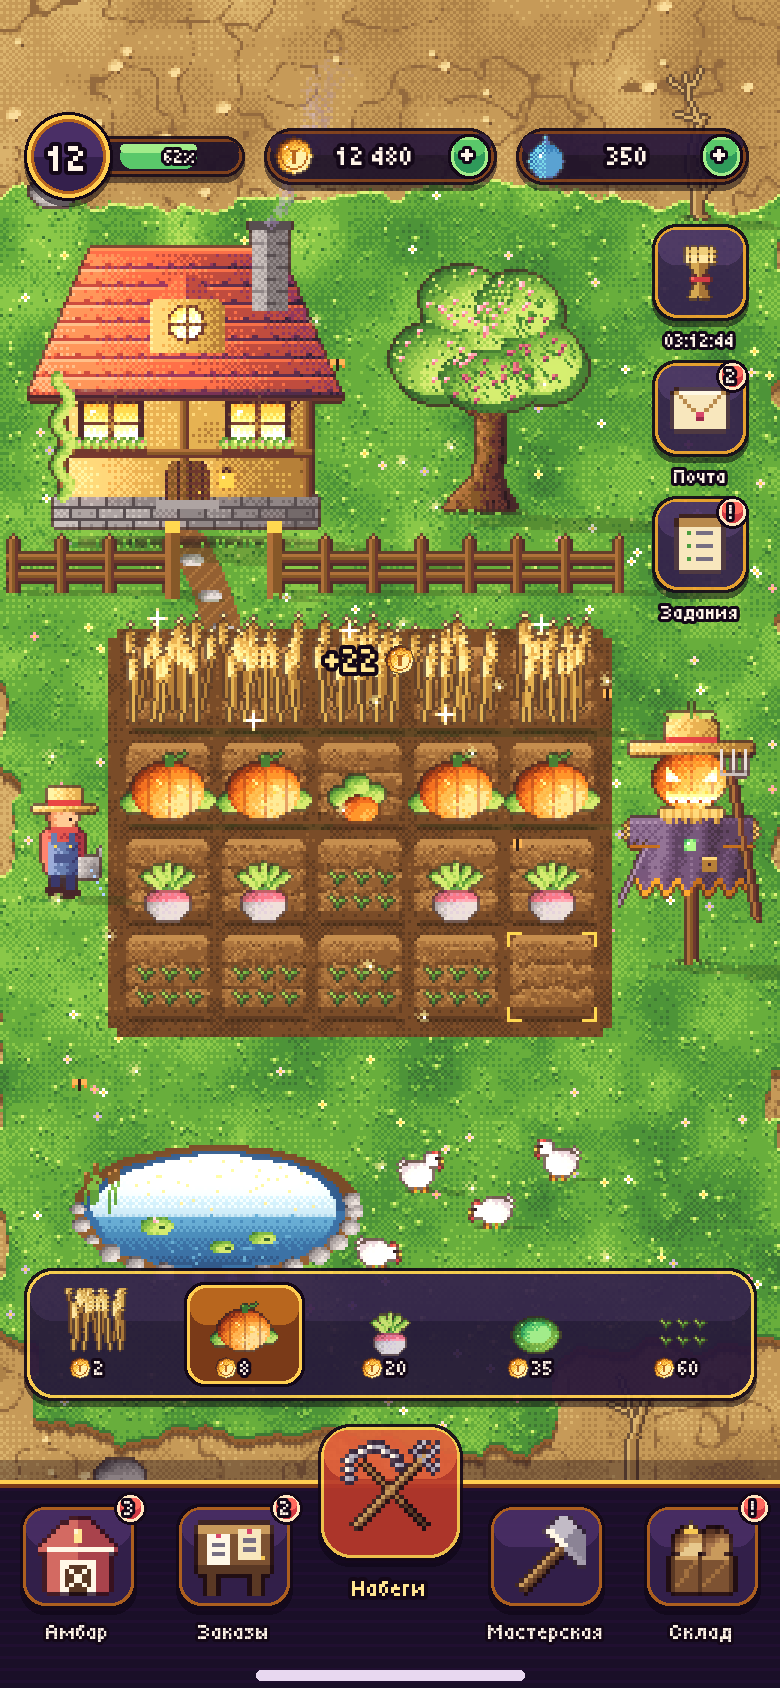
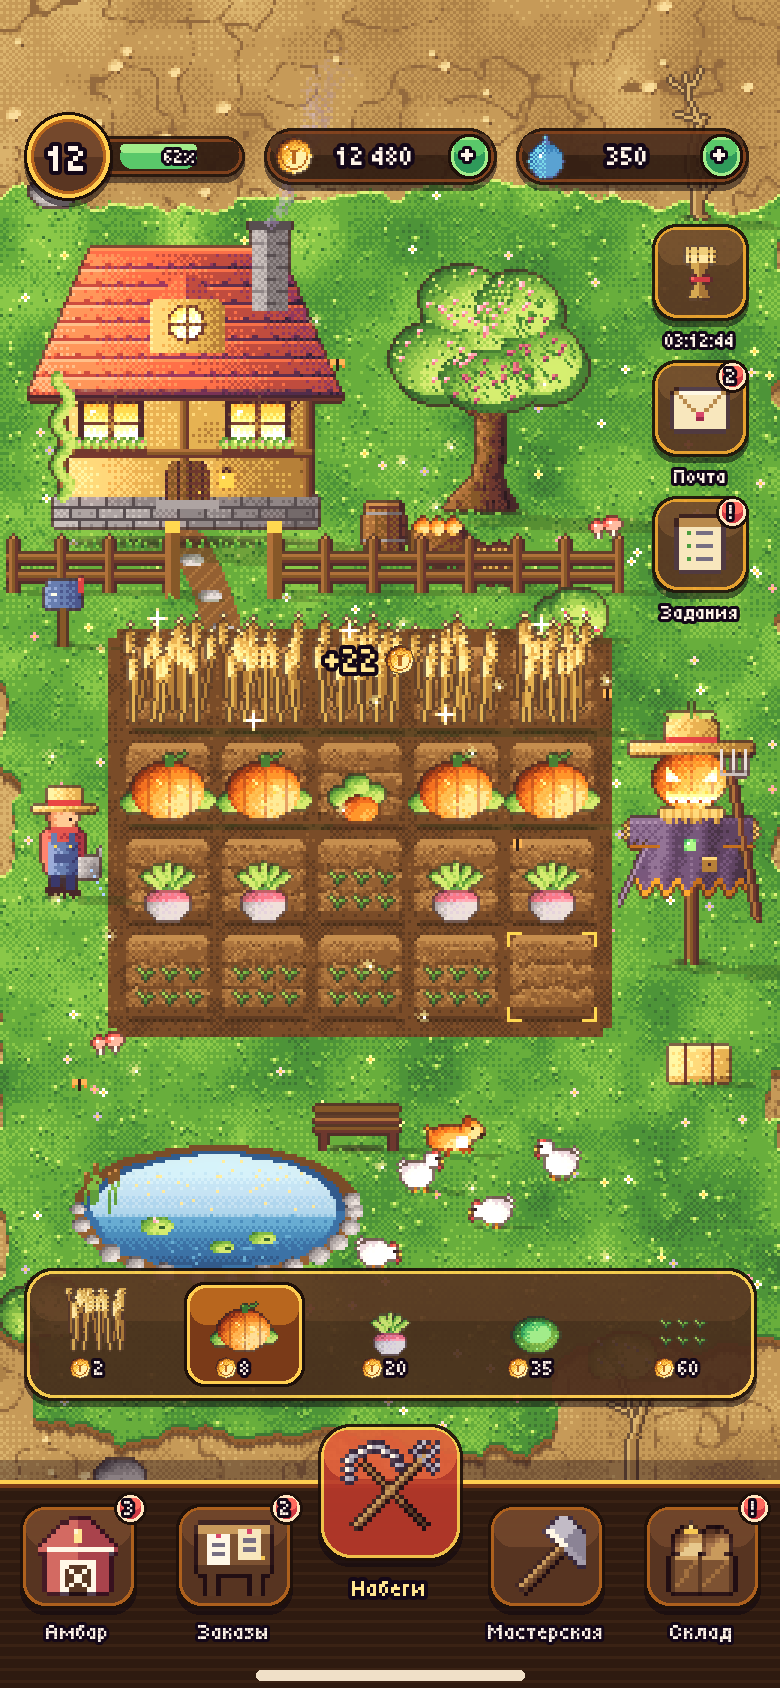
Cozy daytime frame: props, wood UI theme
Claude-Session: https://claude.ai/code/session_01QX4WGR94dByJemKKg5xUTs

diff --git a/art/hd/frame.py b/art/hd/frame.py
@@ -105,6 +105,8 @@ def world():
                   "t": O.moon_turnip(2), "s": O.sprout()}[k]
             add(sp, 40 + c * 32, 214 + (r + 1) * 32 - 2, shadow=k in ("w", "p"), ao=0)
 
+    for fn in EXTRA:
+        fn(add)
     for base, sp, x, y, sh, ao in objs:
         if sh:
             im.alpha_composite(cast_shadow(sp, alpha=70), (x, y))
@@ -156,12 +158,21 @@ def text(dst, x, y, s, pt, fill="#fff4e8", stroke="#140818", anchor="la", sw=2):
                              stroke_width=int(sw * K), stroke_fill=stroke)
 
 
-def panel(dst, x0, y0, x1, y1, fill="#26163a", rim="#f0a02e", hi="#4a2f66", r=8, shadow=True, alpha=235):
+COLORS = {}
+EXTRA = []  # callbacks that add more objects to the world: fn(add)
+
+
+def col(c):
+    """Theme hook: the day frame swaps the purple UI for dark wood."""
+    return COLORS.get(c, c)
+
+
+def panel(dst, x0, y0, x1, y1, fill=col("#26163a"), rim=col("#f0a02e"), hi=col("#4a2f66"), r=8, shadow=True, alpha=235):
     lay = Image.new("RGBA", dst.size)
     d = ImageDraw.Draw(lay)
     if shadow:
         d.rounded_rectangle([x0 * K, (y0 + 3) * K, x1 * K, (y1 + 3) * K], r * K, fill=(10, 4, 16, 140))
-    d.rounded_rectangle([x0 * K, y0 * K, x1 * K, y1 * K], r * K, fill="#140818")
+    d.rounded_rectangle([x0 * K, y0 * K, x1 * K, y1 * K], r * K, fill=col("#140818"))
     d.rounded_rectangle([(x0 + 1.5) * K, (y0 + 1.5) * K, (x1 - 1.5) * K, (y1 - 1.5) * K], (r - 1) * K, fill=rim)
     d.rounded_rectangle([(x0 + 3) * K, (y0 + 3) * K, (x1 - 3) * K, (y1 - 3) * K], (r - 2) * K, fill=fill)
     d.rounded_rectangle([(x0 + 3) * K, (y0 + 3) * K, (x1 - 3) * K, (y0 + 3 + (y1 - y0) * 0.35) * K], (r - 2) * K,
@@ -179,7 +190,7 @@ def icon(dst, im, cx, cy, size):
 
 def badge(dst, cx, cy, s):
     w = max(16, 8 + 7 * len(s))
-    panel(dst, cx - w / 2, cy - 8, cx + w / 2, cy + 8, fill="#d23a44", rim="#ffe6c0", hi="#ff6a5e", r=8,
+    panel(dst, cx - w / 2, cy - 8, cx + w / 2, cy + 8, fill=col("#d23a44"), rim=col("#ffe6c0"), hi=col("#ff6a5e"), r=8,
           shadow=False, alpha=255)
     text(dst, cx, cy, s, 11, anchor="mm", sw=1.5)
 
@@ -195,25 +206,25 @@ def hud_parts(dst, tray=True, gain=(176, 330)):
     top = 56
     # level: round badge with XP ring and name
     # XP bar first, the round badge sits on its left end
-    panel(dst, 44, top + 12, 122, top + 32, fill="#1a0f28", rim="#7a3a18", hi="#1a0f28", r=10, shadow=True)
+    panel(dst, 44, top + 12, 122, top + 32, fill=col("#1a0f28"), rim=col("#7a3a18"), hi=col("#1a0f28"), r=10, shadow=True)
     dd = ImageDraw.Draw(dst)
-    dd.rounded_rectangle([60 * K, (top + 16) * K, 98 * K, (top + 28) * K], 6 * K, fill="#5ac86a")
-    dd.rounded_rectangle([60 * K, (top + 16) * K, 98 * K, (top + 20) * K], 3 * K, fill="#a2ec8a")
+    dd.rounded_rectangle([60 * K, (top + 16) * K, 98 * K, (top + 28) * K], 6 * K, fill=col("#5ac86a"))
+    dd.rounded_rectangle([60 * K, (top + 16) * K, 98 * K, (top + 20) * K], 3 * K, fill=col("#a2ec8a"))
     text(dst, 90, top + 22, "62%", 10, anchor="mm", sw=1.5)
     cxl, cyl, rl = 34, top + 22, 22
     sh = Image.new("RGBA", dst.size)
     ImageDraw.Draw(sh).ellipse([(cxl - rl) * K, (cyl - rl + 3) * K, (cxl + rl) * K, (cyl + rl + 3) * K], fill=(10, 4, 16, 140))
     dst.alpha_composite(sh)
-    for rr, col in ((rl, "#140818"), (rl - 1.5, "#ffce50"), (rl - 3.5, "#b8661e"), (rl - 5, "#34204c")):
-        dd.ellipse([(cxl - rr) * K, (cyl - rr) * K, (cxl + rr) * K, (cyl + rr) * K], fill=col)
-    dd.chord([(cxl - rl + 5) * K, (cyl - rl + 5) * K, (cxl + rl - 5) * K, (cyl + rl - 5) * K], 180, 360, fill="#4a2f66")
+    for rr, ring in ((rl, col("#140818")), (rl - 1.5, col("#ffce50")), (rl - 3.5, col("#b8661e")), (rl - 5, col("#34204c"))):
+        dd.ellipse([(cxl - rr) * K, (cyl - rr) * K, (cxl + rr) * K, (cyl + rr) * K], fill=ring)
+    dd.chord([(cxl - rl + 5) * K, (cyl - rl + 5) * K, (cxl + rl - 5) * K, (cyl + rl - 5) * K], 180, 360, fill=col("#4a2f66"))
     text(dst, cxl, cyl + 1, "12", 20, anchor="mm")
 
     def pill(x0, im, value):
-        panel(dst, x0, top + 8, x0 + 116, top + 36, fill="#1a0f28", rim="#7a3a18", hi="#26163a", r=14)
+        panel(dst, x0, top + 8, x0 + 116, top + 36, fill=col("#1a0f28"), rim=col("#7a3a18"), hi=col("#26163a"), r=14)
         icon(dst, im, x0 + 15, top + 22, 20)
         text(dst, x0 + 56, top + 22, value, 14, anchor="mm")
-        panel(dst, x0 + 92, top + 11, x0 + 113, top + 33, fill="#2f9a5a", rim="#a2ec8a", hi="#5ac86a", r=10,
+        panel(dst, x0 + 92, top + 11, x0 + 113, top + 33, fill=col("#2f9a5a"), rim=col("#a2ec8a"), hi=col("#5ac86a"), r=10,
               shadow=False, alpha=255)
         text(dst, x0 + 102.5, top + 21.5, "+", 16, anchor="mm", sw=1.5)
 
@@ -225,7 +236,7 @@ def hud_parts(dst, tray=True, gain=(176, 330)):
     for i, (ic, label, b) in enumerate((("hud_sickle", "03:12:44", None), ("hud_mail", "Почта", "2"),
                                         ("hud_tasks", "Задания", "!"))):
         y = 112 + i * 68
-        panel(dst, 326, y, 374, y + 48, fill="#34204c", rim="#f0a02e", hi="#4a2f66", r=12)
+        panel(dst, 326, y, 374, y + 48, fill=col("#34204c"), rim=col("#f0a02e"), hi=col("#4a2f66"), r=12)
         icon(dst, side_icons[ic], 350, y + 24, 30)
         text(dst, 350, y + 58, label, 10, anchor="mm", sw=1.5)
         if b:
@@ -234,19 +245,19 @@ def hud_parts(dst, tray=True, gain=(176, 330)):
     # seed tray: slides up over the dock while an empty bed is selected
     if tray:
         ty0 = 634
-        panel(dst, 12, ty0, 378, ty0 + 66, fill="#26163a", rim="#ffce50", hi="#34204c", r=14)
+        panel(dst, 12, ty0, 378, ty0 + 66, fill=col("#26163a"), rim=col("#ffce50"), hi=col("#34204c"), r=14)
         seeds = [(O.wheat(3), "2", "Пыльная пшеница"), (O.ember_pumpkin(3), "8", ""), (O.moon_turnip(2), "20", ""),
                  (O.frost_cabbage(), "35", ""), (O.sprout(), "60", "")]
         for i, (sp, cost, _) in enumerate(seeds):
             cx = 49 + i * 73
             if i == 1:
-                panel(dst, cx - 30, ty0 + 7, cx + 30, ty0 + 59, fill="#7a3a18", rim="#ffce50", hi="#b8661e", r=10,
+                panel(dst, cx - 30, ty0 + 7, cx + 30, ty0 + 59, fill=col("#7a3a18"), rim=col("#ffce50"), hi=col("#b8661e"), r=10,
                       shadow=False, alpha=255)
             icon(dst, sp.crop((0, 12, 32, 44)), cx, ty0 + 27, 34)
             icon(dst, O.coin_icon(), cx - 9, ty0 + 50, 11)
             text(dst, cx - 2, ty0 + 50, cost, 11, anchor="lm", sw=1.5)
     # floating gain over the wheat
-    text(dst, gain[0], gain[1], "+22", 18, fill="#ffe590", anchor="mm")
+    text(dst, gain[0], gain[1], "+22", 18, fill=col("#ffe590"), anchor="mm")
     icon(dst, O.coin_icon(), gain[0] + 24, gain[1], 15)
 
     # dock
@@ -256,30 +267,30 @@ def hud_parts(dst, tray=True, gain=(176, 330)):
     ld = ImageDraw.Draw(lay)
     ld.rectangle([0, (dock - 10) * K, 390 * K, dock * K], fill=(20, 8, 24, 90))
     dst.alpha_composite(lay)
-    d.rectangle([0, dock * K, 390 * K, 844 * K], fill="#1a0f28")
-    d.rectangle([0, dock * K, 390 * K, (dock + 2) * K], fill="#ffce50")
-    d.rectangle([0, (dock + 2) * K, 390 * K, (dock + 4) * K], fill="#7a3a18")
+    d.rectangle([0, dock * K, 390 * K, 844 * K], fill=col("#1a0f28"))
+    d.rectangle([0, dock * K, 390 * K, (dock + 2) * K], fill=col("#ffce50"))
+    d.rectangle([0, (dock + 2) * K, 390 * K, (dock + 4) * K], fill=col("#7a3a18"))
     for y in range(dock + 4, 844, 6):
-        d.rectangle([0, y * K, 390 * K, (y + 1) * K], fill="#200f30")
+        d.rectangle([0, y * K, 390 * K, (y + 1) * K], fill=col("#200f30"))
     slots = [("dock_barn", "Амбар", "3"), ("dock_orders", "Заказы", "2"), ("dock_raids", "Набеги", None),
              ("dock_workshop", "Мастерская", None), ("dock_storage", "Склад", "!")]
     for i, (ic, label, b) in enumerate(slots):
         cx = 39 + i * 78
         if ic == "dock_raids":
             y0 = dock - 28
-            panel(dst, cx - 36, y0, cx + 36, y0 + 68, fill="#b8382a", rim="#ffce50", hi="#e2603a", r=16)
+            panel(dst, cx - 36, y0, cx + 36, y0 + 68, fill=col("#b8382a"), rim=col("#ffce50"), hi=col("#e2603a"), r=16)
             g = Image.new("RGBA", dst.size)
             icon(g, lf[ic], cx, y0 + 33, 50)
             dst.alpha_composite(g)
-            text(dst, cx, y0 + 82, label, 12, anchor="mm", fill="#ffe590")
+            text(dst, cx, y0 + 82, label, 12, anchor="mm", fill=col("#ffe590"))
             continue
         y0 = dock + 12
-        panel(dst, cx - 29, y0, cx + 29, y0 + 52, fill="#34204c", rim="#b8661e", hi="#4a2f66", r=12)
+        panel(dst, cx - 29, y0, cx + 29, y0 + 52, fill=col("#34204c"), rim=col("#b8661e"), hi=col("#4a2f66"), r=12)
         icon(dst, lf[ic], cx, y0 + 26, 40)
         text(dst, cx, y0 + 64, label, 11, anchor="mm", sw=1.5)
         if b:
             badge(dst, cx + 26, y0 + 2, b)
-    d.rounded_rectangle([(195 - 67) * K, 835 * K, (195 + 67) * K, 840 * K], 3 * K, fill="#e8d8f0")
+    d.rounded_rectangle([(195 - 67) * K, 835 * K, (195 + 67) * K, 840 * K], 3 * K, fill=col("#e8d8f0"))
 
 
 def grade(img):

diff --git a/art/hd/props.py b/art/hd/props.py
@@ -1,0 +1,185 @@
+"""Small farm props for the cozy daytime look: barrels, crates, mailbox,
+bushes, flower boxes, log pile, mushrooms, hay bale, a dog, a bench.
+They make the farm feel lived-in."""
+import math
+import random
+
+from .draw import ball, line, mix, new, outline, put, rect
+from .palette import RAMPS, dither, hash01, ramp_d
+
+R = RAMPS
+
+
+def barrel():
+    im = new(16, 20)
+    for y in range(2, 19):
+        bulge = 1 if 5 < y < 16 else 0
+        for x in range(2 - bulge, 14 + bulge):
+            t = 0.78 - (x - 1) / 14 * 0.5
+            if y in (5, 14):
+                put(im, x, y, R["stone"][2 if x > 8 else 4])
+                continue
+            if (x - 1) % 4 == 0:
+                t -= 0.15
+            put(im, x, y, ramp_d("wood", t, x, y))
+    for x in range(3, 13):
+        put(im, x, 2, R["wood"][5] if x < 9 else R["wood"][4])
+        put(im, x, 3, R["wood"][2])
+    outline(im)
+    return im
+
+
+def crate(vegs=True):
+    im = new(20, 18)
+    for y in range(5, 17):
+        for x in range(1, 19):
+            t = 0.75 - (x / 19) * 0.4
+            if y in (5, 16) or x in (1, 18):
+                t -= 0.2
+            put(im, x, y, ramp_d("wood", t, x, y))
+    line(im, 2, 15, 17, 6, R["wood"][2])
+    if vegs:
+        for (x, c) in ((5, "pumpkin"), (10, "pumpkin"), (15, "pumpkin")):
+            ball(im, x, 4, 3, 2.6, c, lo=0.3, hi=0.95)
+        put(im, 10, 1, R["leaf"][3])
+    outline(im)
+    return im
+
+
+def mailbox():
+    im = new(14, 24)
+    rect(im, 6, 10, 7, 23, R["wood"][3])
+    put(im, 6, 10, R["wood"][4])
+    for y in range(2, 11):
+        for x in range(1, 13):
+            if y < 4 and x in (1, 12):
+                continue
+            t = 0.75 - x / 13 * 0.4
+            put(im, x, y, ramp_d("cloth_blue", t, x, y))
+    rect(im, 12, 1, 13, 5, R["red"][2])
+    put(im, 12, 1, R["red"][3])
+    put(im, 3, 6, "#fff4e8")
+    put(im, 4, 6, "#fff4e8")
+    outline(im)
+    return im
+
+
+def bush(w=26, h=18, seed=1, berries=None):
+    im = new(w, h)
+    rnd = random.Random(seed)
+    blobs = [(w * 0.3, h * 0.6, w * 0.3, h * 0.42), (w * 0.62, h * 0.52, w * 0.32, h * 0.46),
+             (w * 0.46, h * 0.38, w * 0.26, h * 0.34)]
+    for (bx, by, rx, ry) in blobs:
+        ball(im, bx, by, rx, ry, "leaf", lo=0.15, hi=0.95)
+    for _ in range(w * h // 14):
+        bx, by, rx, ry = rnd.choice(blobs)
+        a = rnd.random() * 6.283
+        x, y = bx + math.cos(a) * rx * 0.7, by + math.sin(a) * ry * 0.7
+        if im.getpixel((int(x), int(y)))[3]:
+            lit = x + y < w * 0.7
+            put(im, x, y, R["leaf"][5 if lit else 3])
+    if berries:
+        for _ in range(7):
+            x, y = rnd.randrange(3, w - 3), rnd.randrange(3, h - 3)
+            if im.getpixel((x, y))[3]:
+                put(im, x, y, berries)
+                put(im, x - 1, y - 1, "#ffffff")
+    outline(im)
+    return im
+
+
+def flower_box(w=34):
+    im = new(w, 16)
+    for y in range(8, 15):
+        for x in range(1, w - 1):
+            put(im, x, y, ramp_d("wood", 0.7 - x / w * 0.35 - (0.2 if y in (8, 14) else 0), x, y))
+    rnd = random.Random(w)
+    cols = ("#ff7a8a", "#ffd34a", "#ffffff", "#c88aff", "#ff9a4a")
+    for x in range(3, w - 3, 3):
+        hgt = rnd.randint(3, 6)
+        for k in range(hgt):
+            put(im, x, 8 - k, R["leaf"][3])
+        c = rnd.choice(cols)
+        for dx, dy in ((0, 0), (1, 0), (-1, 0), (0, -1), (0, 1)):
+            put(im, x + dx, 8 - hgt + dy, c)
+        put(im, x, 8 - hgt, "#ffce50")
+    outline(im)
+    return im
+
+
+def log_pile():
+    im = new(26, 16)
+    for (cx, cy) in ((6, 11), (13, 11), (20, 11), (9, 5), (16, 5)):
+        for y in range(cy - 4, cy + 5):
+            for x in range(cx - 4, cx + 5):
+                d = math.hypot(x - cx, y - cy)
+                if d <= 4:
+                    c = R["straw"][4] if d < 1.5 else R["straw"][3] if d < 3 else R["wood"][2]
+                    if 2.2 < d < 2.8:
+                        c = R["wood"][3]
+                    put(im, x, y, c)
+    outline(im)
+    return im
+
+
+def hay_bale():
+    im = new(22, 16)
+    for y in range(3, 15):
+        for x in range(1, 21):
+            t = 0.85 - x / 21 * 0.4 - (0.2 if y > 12 else 0)
+            if (x + y * 3) % 7 == 0:
+                t += 0.1
+            put(im, x, y, ramp_d("straw", t, x, y))
+    for x in range(1, 21):
+        put(im, x, 3, R["straw"][5])
+    rect(im, 6, 3, 6, 14, R["wood"][2])
+    rect(im, 15, 3, 15, 14, R["wood"][2])
+    outline(im)
+    return im
+
+
+def mushrooms():
+    im = new(12, 10)
+    for (x, y, r) in ((3, 6, 2.6), (8, 5, 3.2)):
+        rect(im, x, y, x, y + 3, "#fff4e8")
+        ball(im, x, y, r, r * 0.7, "red", lo=0.3, hi=1.0)
+        put(im, x - 1, y - 1, "#ffffff")
+    outline(im)
+    return im
+
+
+def dog(frame=0):
+    """A sleepy farm dog: original, ginger with a white chest."""
+    im = new(22, 16)
+    ball(im, 10, 10, 7, 4.2, "pumpkin", lo=0.3, hi=0.9)
+    ball(im, 17, 7, 3.6, 3.2, "pumpkin", lo=0.35, hi=0.95)
+    rect(im, 15, 3, 16, 5, R["pumpkin"][2])  # ear
+    put(im, 20, 8, "#2a1a12")  # nose
+    put(im, 17, 6, "#2a1a12")  # eye
+    ball(im, 14, 11, 2.5, 2, "white", lo=0.5, hi=1.0)
+    for x in (6, 9, 13, 15):
+        rect(im, x, 13, x + 1, 15, R["pumpkin"][2])
+    tail = (2, 6) if frame == 0 else (2, 9)
+    line(im, 4, 9, tail[0], tail[1], R["pumpkin"][4])
+    outline(im)
+    return im
+
+
+def bench():
+    im = new(30, 16)
+    for y in (5, 8):
+        for x in range(1, 29):
+            put(im, x, y, R["wood"][4] if y == 5 else R["wood"][3])
+            put(im, x, y + 1, R["wood"][2])
+    for x in (3, 26):
+        rect(im, x, 9, x + 1, 15, R["wood"][2])
+    rect(im, 1, 1, 28, 2, R["wood"][3])
+    outline(im)
+    return im
+
+
+def stepping_stone(r=4):
+    im = new(r * 2 + 3, r + 3)
+    ball(im, r + 1, (r + 3) / 2, r, r * 0.55, "stone", lo=0.35, hi=1.0)
+    outline(im)
+    return im

diff --git a/art/hd/frame_day.py b/art/hd/frame_day.py
@@ -13,7 +13,7 @@ DAY = {
     "soil": ["#3a2418", "#523222", "#6c4228", "#865632", "#a06c3e", "#b8844e"],
     "leaf": ["#1e4024", "#2a5a2e", "#3a7634", "#52943a", "#74b044", "#9cca54", "#c8e070"],
     "stone": ["#2e2a34", "#4a4450", "#66606a", "#827c86", "#a09aa2", "#bcb6bc", "#dcd6da"],
-    "sky": ["#3a78b8", "#4a8ac4", "#62a0d2", "#82b8de", "#a2cce8", "#c2def0", "#e2eef6", "#ffffff"],
+    "sky": ["#2e68a6", "#3a78b8", "#4a8ac4", "#62a0d2", "#82b8de", "#a2cce8", "#b8d8ec", "#c8e2f0"],
     "water": ["#1c3a6a", "#24508a", "#2e68a6", "#3e84bc", "#5aa2d2"],
     "cape": ["#2a1e30", "#3c2a48", "#523a62", "#6a4e7c", "#866a96", "#a488b0"],
     "dust_shadow": ["#000000"],
@@ -28,6 +28,27 @@ def main():
     draw.outline.__defaults__ = ("#3a2418", True, 0.75)
     draw.cast_shadow.__defaults__ = (None, 0.55, 0.3, "#1c3418", 120)
     from . import frame as F
+    from . import props as Pr
+    F.COLORS.update({
+        "#26163a": "#4a2c1c", "#34204c": "#5a3622", "#4a2f66": "#74482c", "#1a0f28": "#2e1a10",
+        "#140818": "#1e100a", "#200f30": "#3a2214", "#e8d8f0": "#f0e0c8",
+    })
+
+    def extra(add):
+        add(Pr.barrel(), 120, 186, ao=12)
+        add(Pr.crate(), 136, 190, ao=16)
+        add(Pr.mailbox(), 14, 216, ao=8)
+        add(Pr.bush(26, 18, 2, berries="#ff4a6a"), 178, 214, ao=20)
+        add(Pr.hay_bale(), 222, 362, ao=18)
+        add(Pr.mushrooms(), 196, 180, shadow=False, ao=0)
+        add(Pr.bench(), 104, 384, ao=24)
+        add(Pr.log_pile(), 150, 196, ao=20)
+        add(Pr.dog(0), 140, 386, ao=16)
+        add(Pr.bush(30, 20, 3), 0, 446, ao=22)
+        add(Pr.bush(24, 16, 4, berries="#5a8aff"), 196, 460, ao=18)
+        add(Pr.mushrooms(), 30, 352, shadow=False, ao=0)
+
+    F.EXTRA.append(extra)
     w = F.world()
     screen = w.resize((F.W * F.S, F.H * F.S), Image.NEAREST)
     canvas = Image.new("RGBA", (390 * F.K, 844 * F.K))
